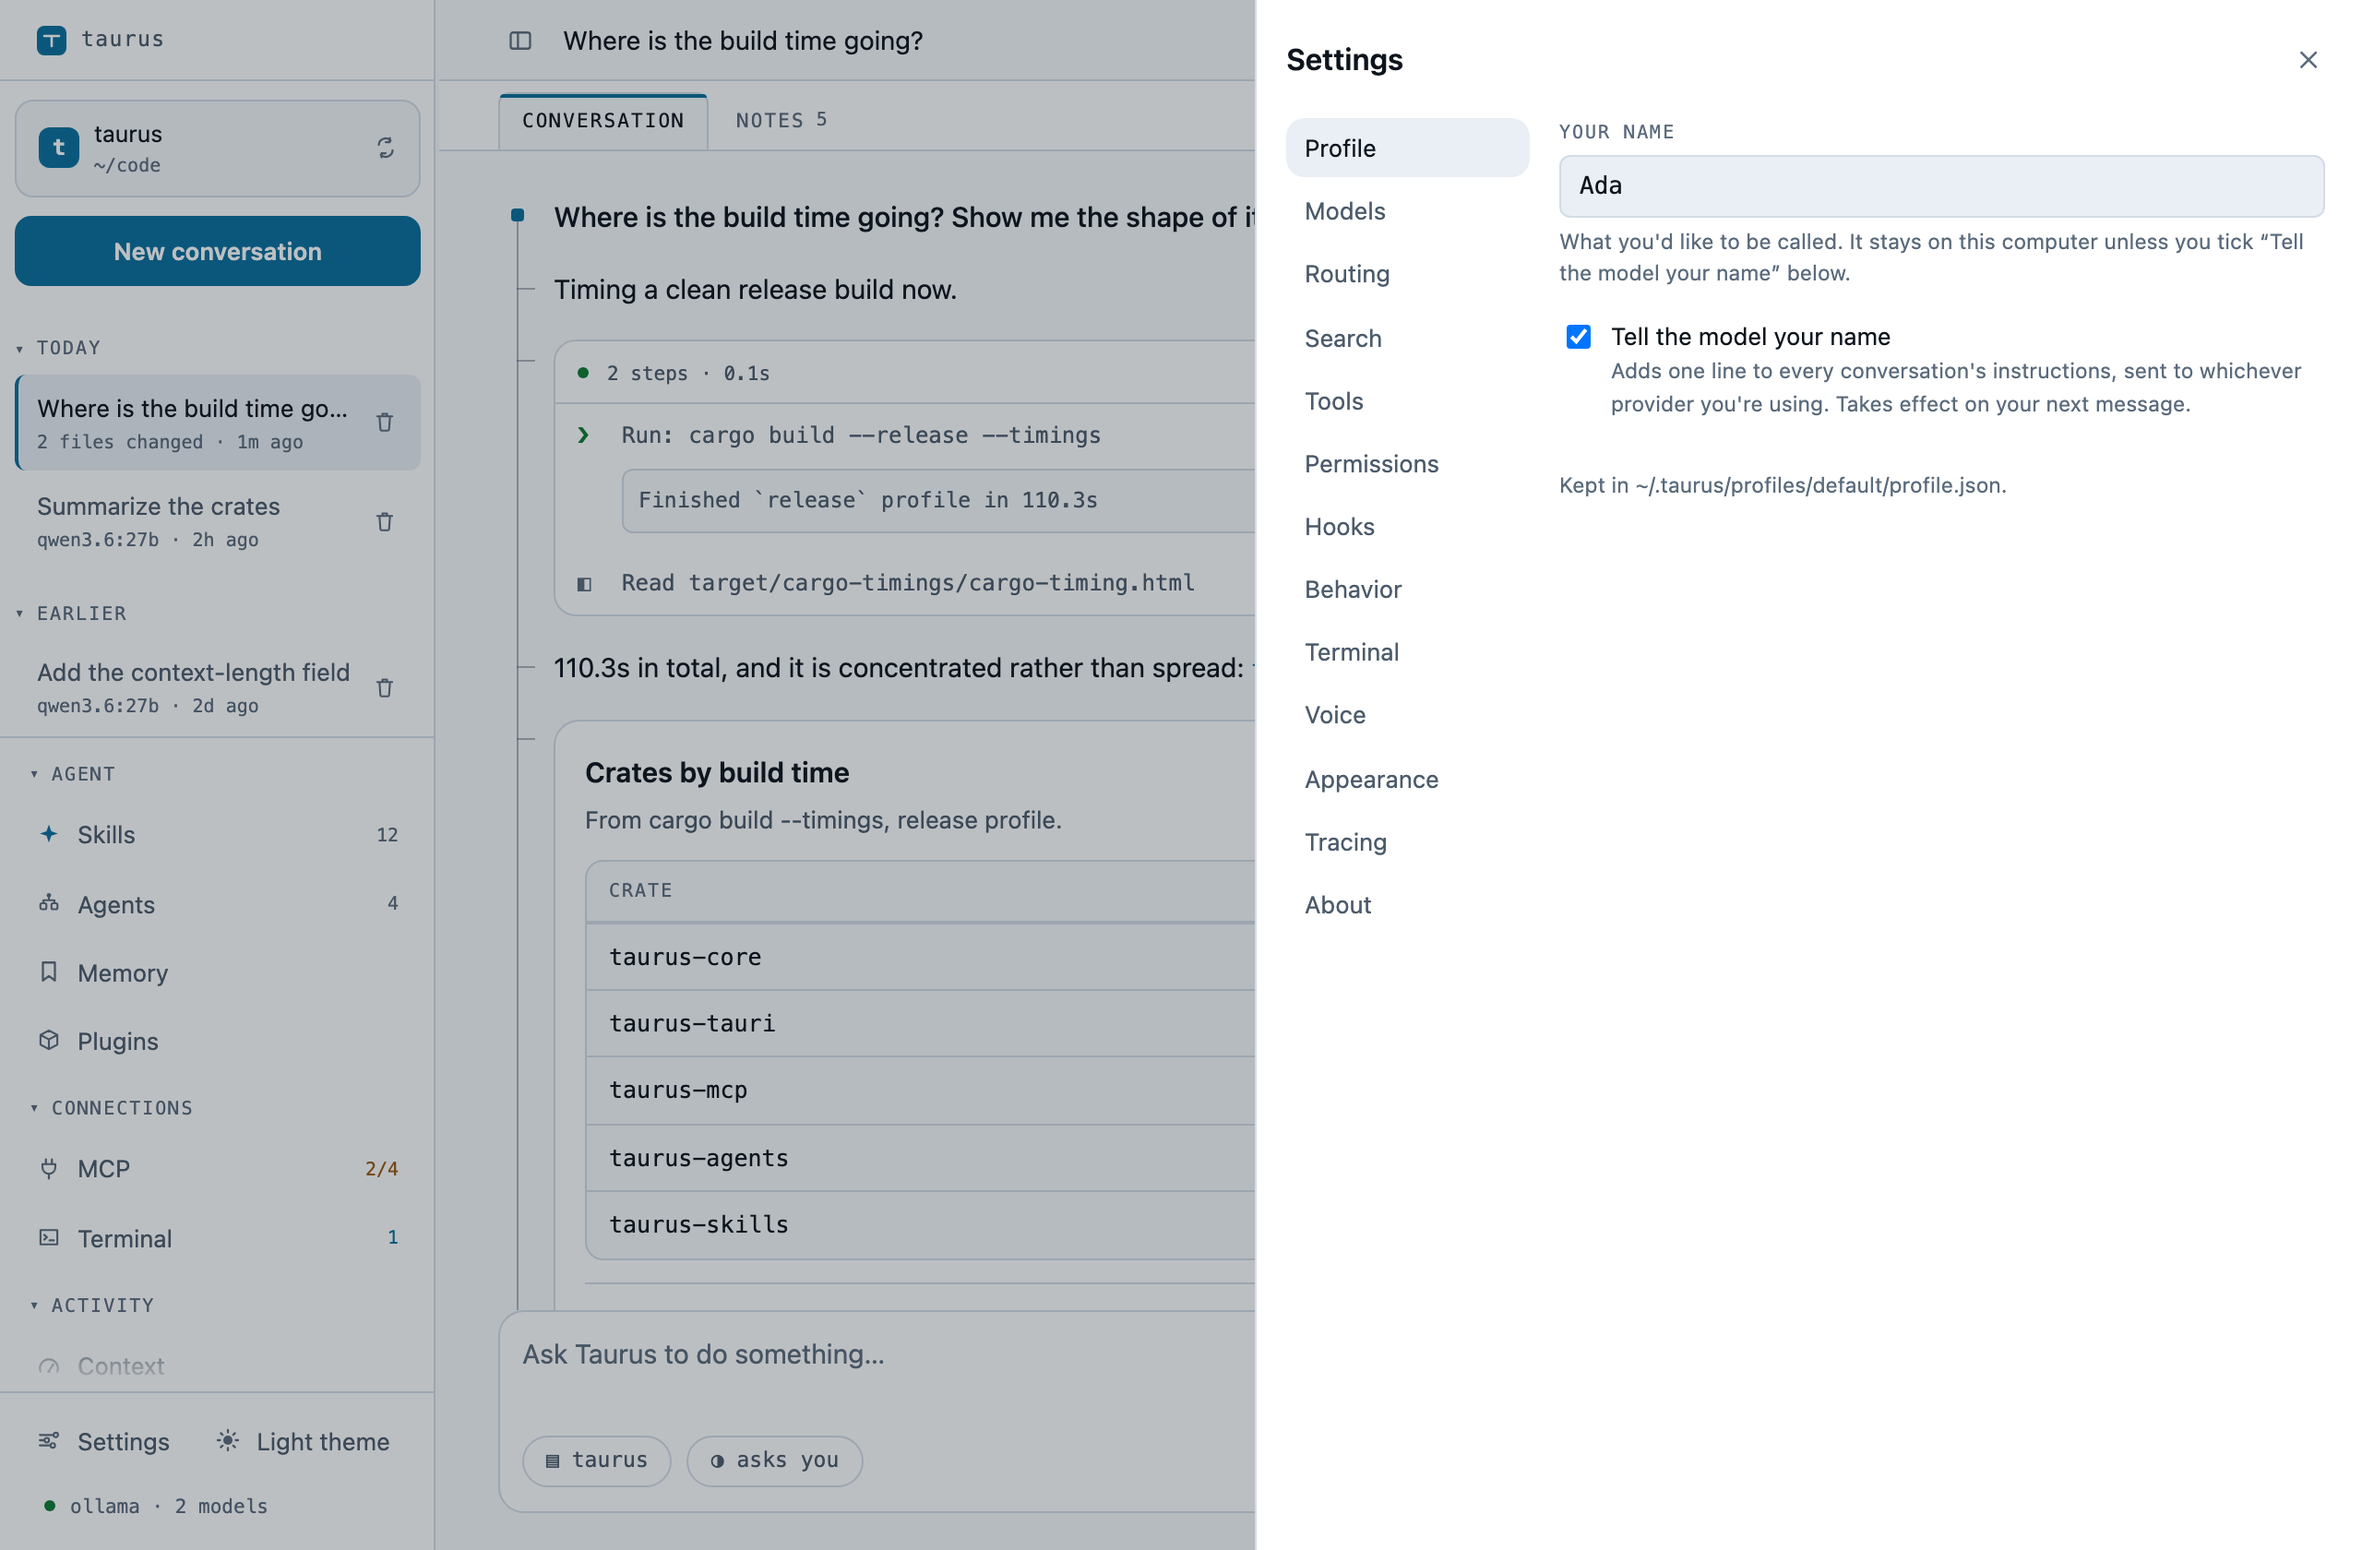
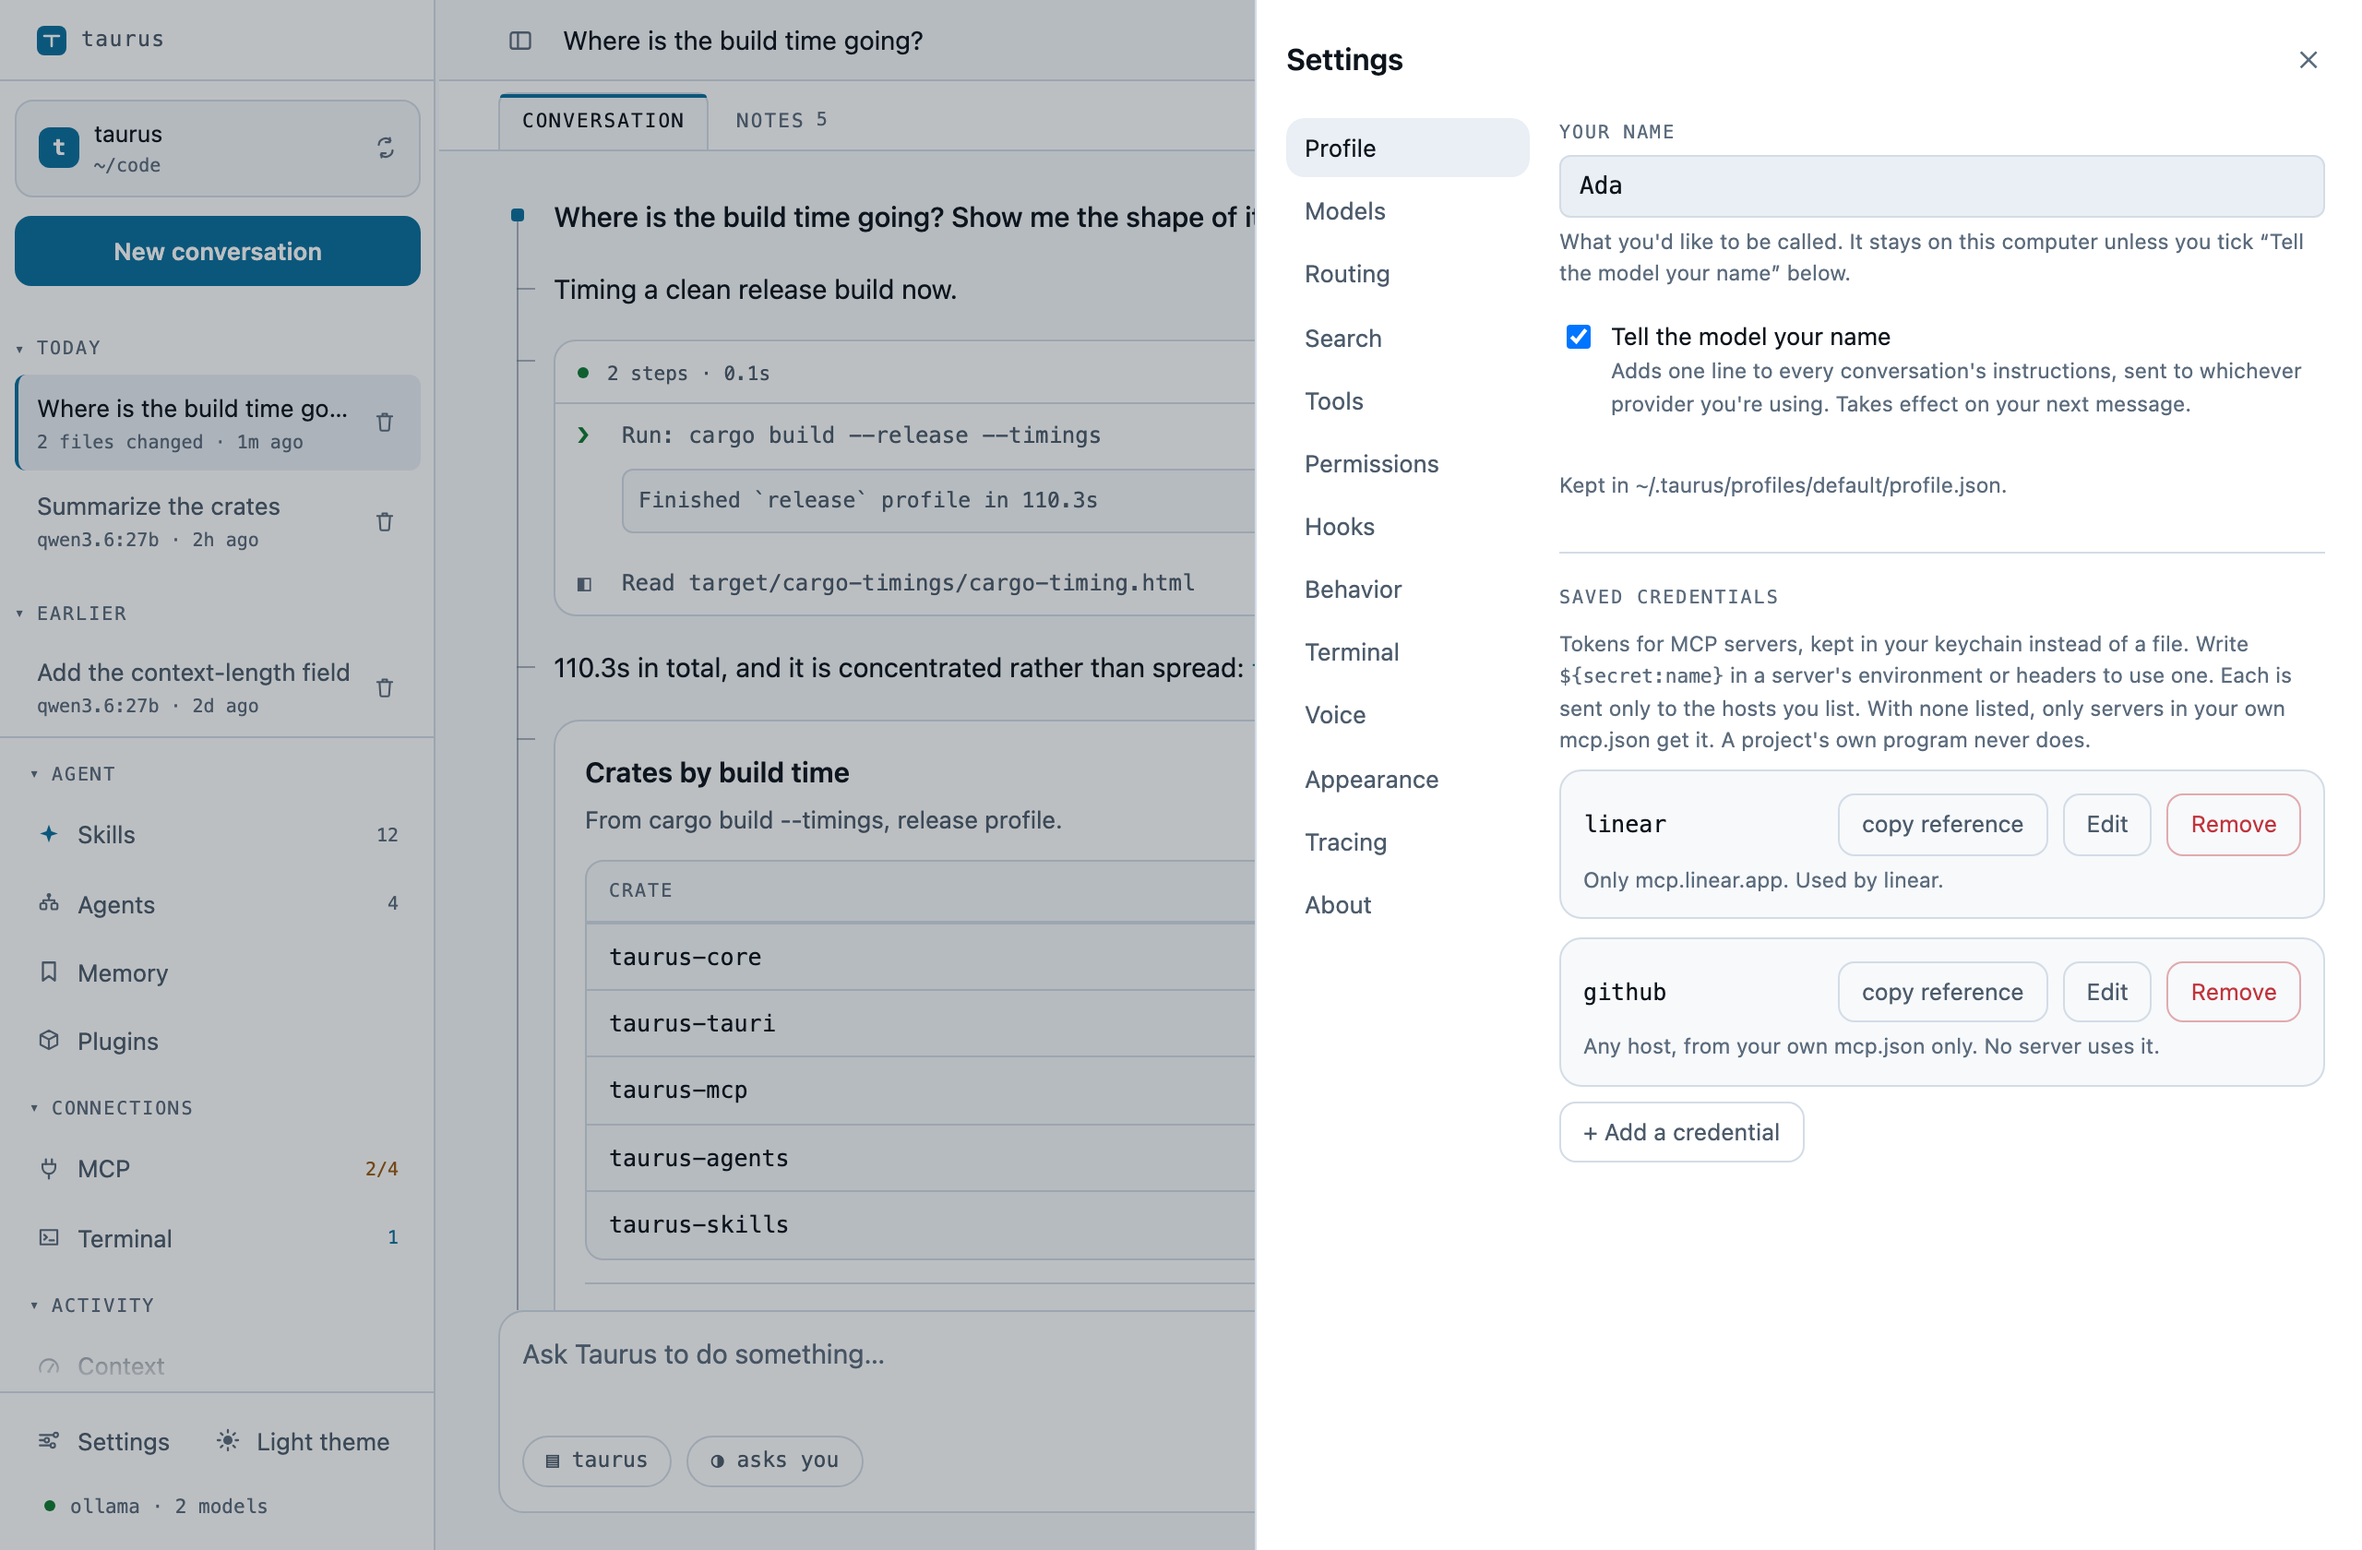
fix: carry the MCP credentials work over main's changes
#140 and #141 merged into feat/profile after it had already gone to main
as #139, so neither reached main. Cherry-picked both, then: mcp_layers is
an associated function on main now, the two sets of tests added at the
end of host/tests.rs needed their own closing brace, and the profile and
keychain screenshots are retaken against current main.

diff --git a/crates/taurus-host/src/host/mcp.rs b/crates/taurus-host/src/host/mcp.rs
@@ -192,7 +192,7 @@ impl Host {
         // each knows which layer wrote it. Plugins' servers are the lowest
         // layer, so your own mcp.json can switch one off by its key, and a
         // layer that won't parse is skipped rather than fatal.
-        let (config, _, problems) = self.mcp_layers(&workspace);
+        let (config, _, problems) = Self::mcp_layers(&workspace);
 
         let plan = self.mcp.plan(&config, restart).await;
 
@@ -310,7 +310,7 @@ impl Host {
     /// The active profile's saved credentials, with the servers using each.
     pub async fn credentials(&self) -> Result<Vec<CredentialView>, String> {
         let workspace = self.workspace.read().await.clone();
-        let (config, _, _) = self.mcp_layers(&workspace);
+        let (config, _, _) = Self::mcp_layers(&workspace);
         credentials::views(profile::active_id(), &config.servers)
     }
 

diff --git a/crates/taurus-host/src/host/tests.rs b/crates/taurus-host/src/host/tests.rs
@@ -4601,6 +4601,8 @@ async fn a_skill_saved_into_a_project_plugin_under_a_running_command_stands() {
             .exists(),
         "{said}"
     );
+}
+
 /// A stand-in whose environment names the saved credential `name`.
 fn stand_in_using(name: &str, tools: &[&str]) -> taurus_mcp::ServerConfig {
     let mut server = stand_in(tools);
